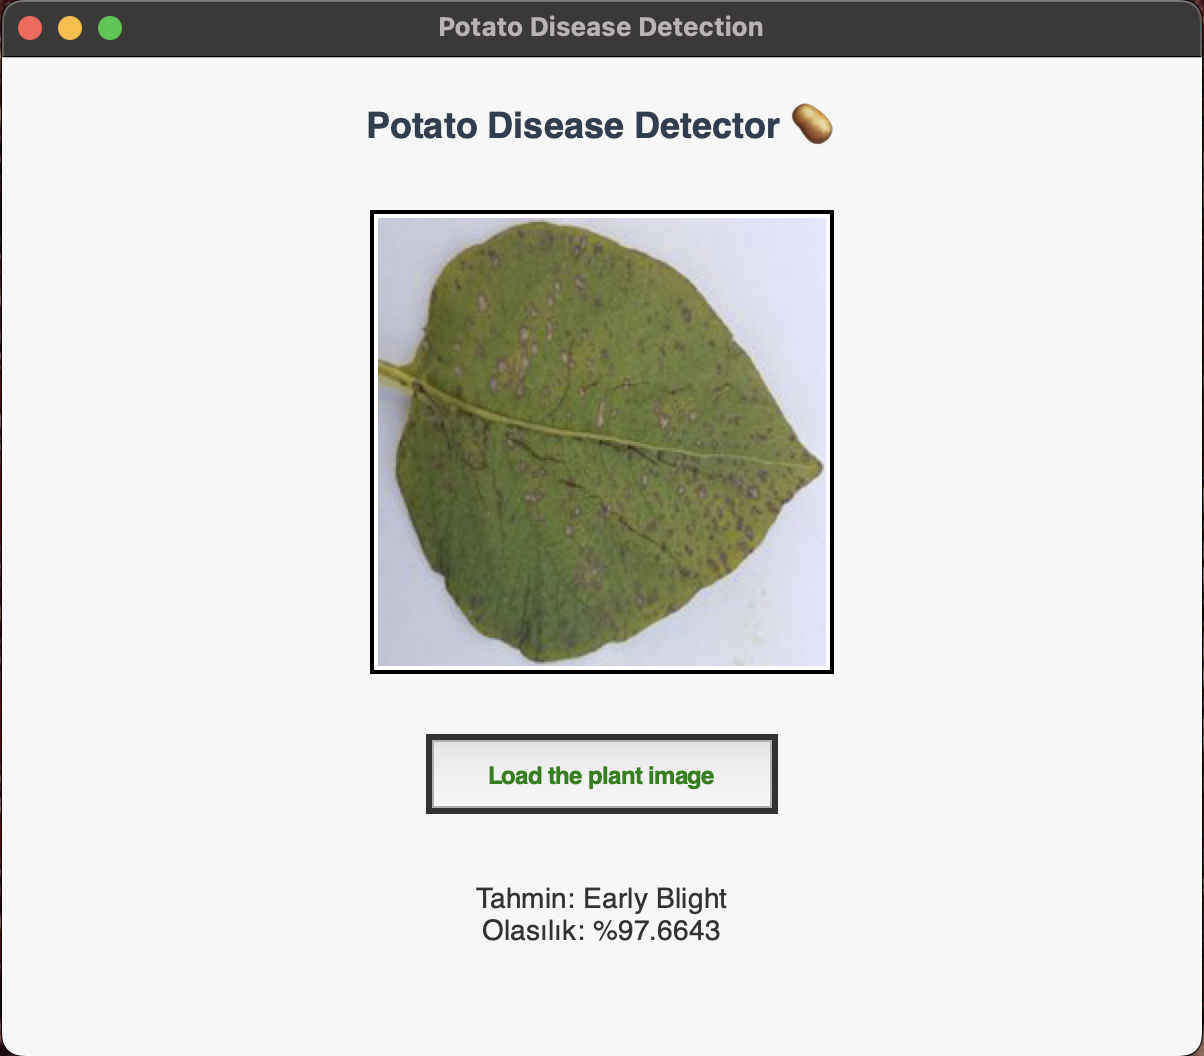
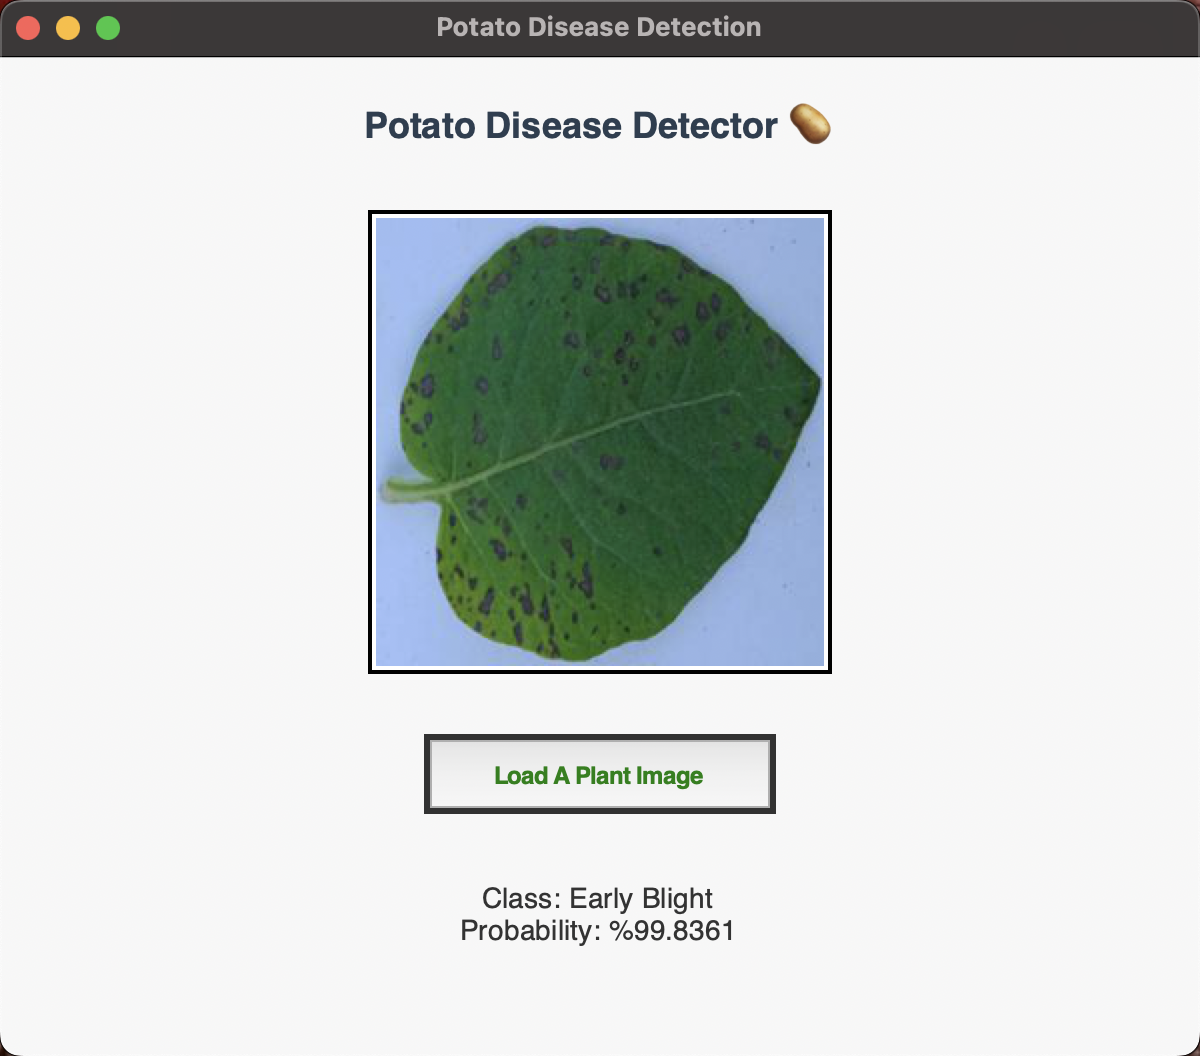
Update README and model results

diff --git a/src/main.py b/src/main.py
@@ -17,7 +17,7 @@ def display_prediction(predictions):
     top_index = np.argmax(predictions)
     predicted_class = list(class_indices.keys())[top_index].replace('_', ' ')
     probability = predictions[0][top_index]
-    result_label.config(text=f"Tahmin: {predicted_class}\nOlasılık: %{probability*100:.4f}")
+    result_label.config(text=f"Class: {predicted_class}\nProbability: %{probability*100:.4f}")
 
 def predict_image():
     """Predict the class of the image and display the result"""
@@ -45,7 +45,7 @@ def open_file():
         img_display = load_image(file_path)
         img_label.config(image=img_display)
         img_label.image = img_display  # Tkinter'da garbage collection'a karşı koruma
-        exeButton.config(text="Analize the Image", command=predict_image)
+        exeButton.config(text="Analize the Leaf", command=predict_image)
 
 # Modelve sınıflar
 model = tf.keras.models.load_model('../model/resnet_potato_disease_model.h5')
